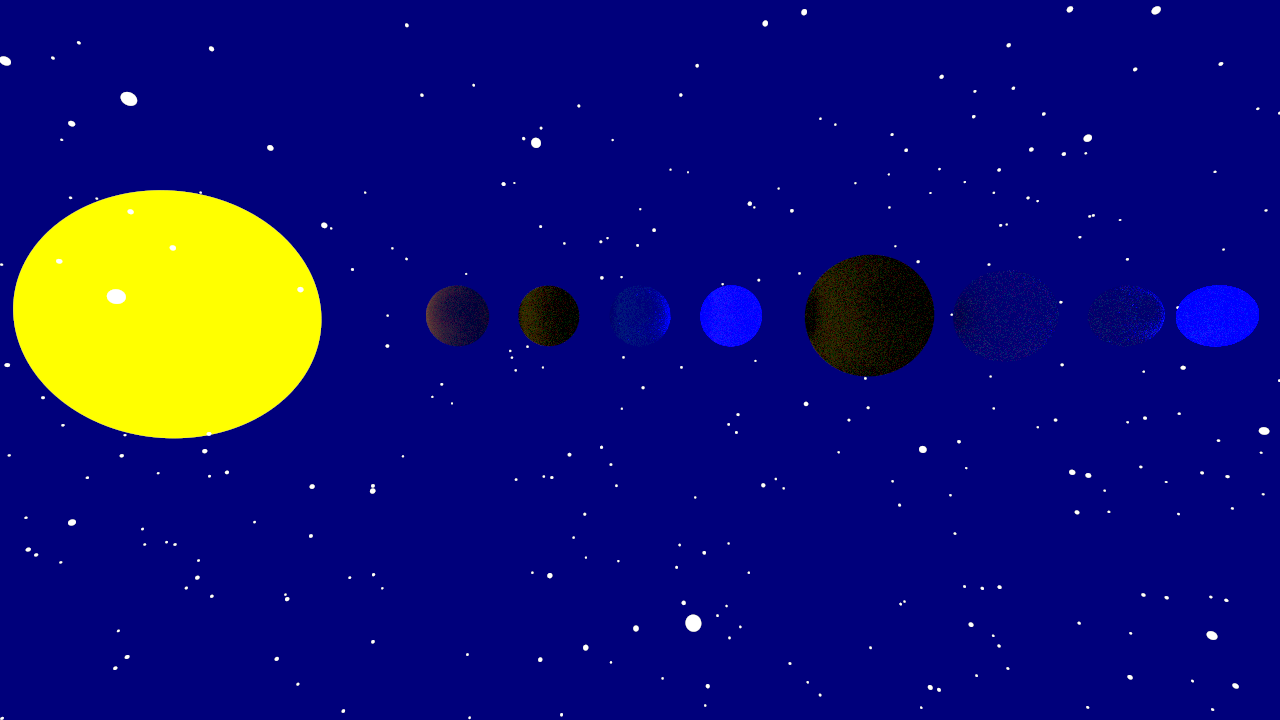
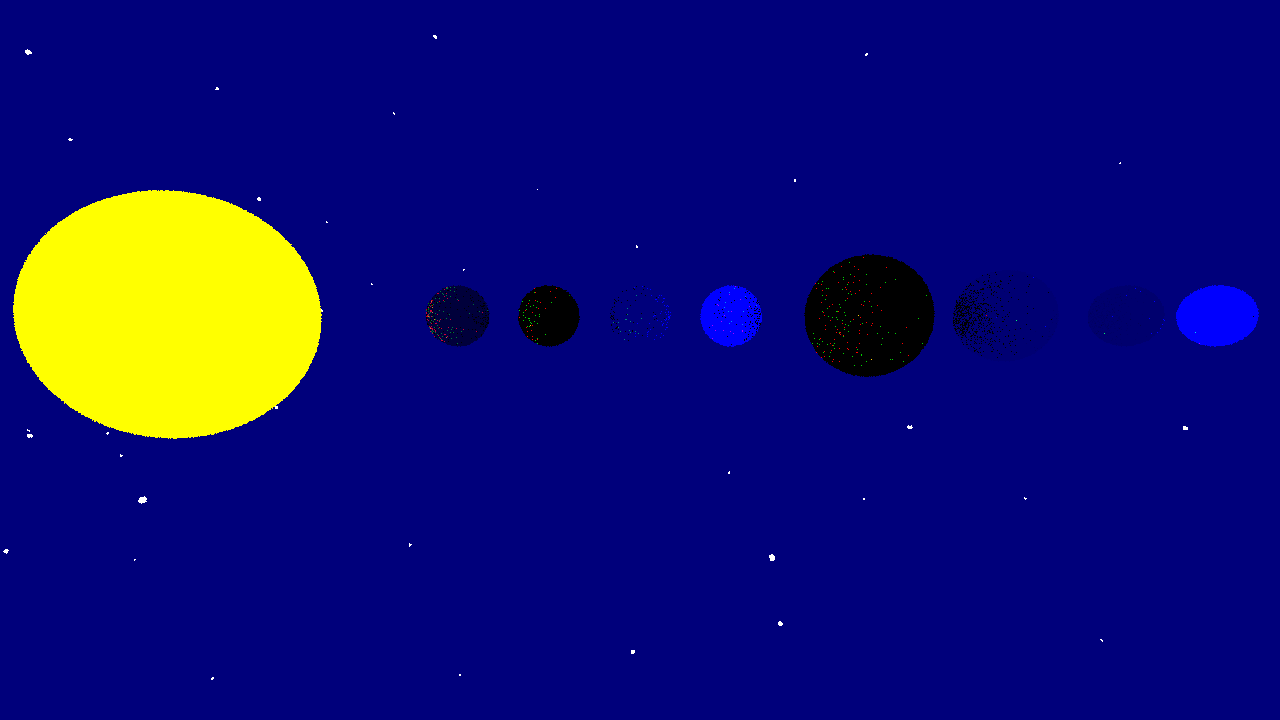
A10 Abgabe

diff --git a/src/cgg/a10/MainA10.java b/src/cgg/a10/MainA10.java
@@ -1,0 +1,64 @@
+package cgg.a10;
+
+import static cgtools.Color.white;
+import static cgtools.Vector.*;
+import static cgtools.Matrix.*;
+import static cgtools.Direction.*;
+
+import java.io.IOException;
+import java.util.ArrayList;
+
+import cgg.Image;
+import cgg.a03.Lochkamera;
+import cgg.a03.Sphere;
+import cgg.a04.Background;
+import cgg.a04.Group;
+import cgg.a04.GroupRaytracer;
+import cgg.a04.Shape;
+import cgg.a05.BackgroundMaterial;
+import cgg.a05.DiffusedMaterial;
+import cgtools.Direction;
+import cgtools.Sampler;
+
+public class MainA10 {
+
+	public static void main(String[] args) {
+		// TODO Auto-generated method stub
+		final int width = 1280;
+		final int height = 720;
+
+		// Creates an image and iterates over all pixel positions inside the image.
+		Image image = new Image(width, height);
+
+		ArrayList<Shape> shapes = new ArrayList<Shape>();
+		
+		try {
+		Sampler universe = new Texture("./Textures/universe.jpeg");
+
+		Shape background = new Background(new BackgroundMaterial(new Constant(white)));
+		Shape globe1 = new Sphere(point(0.0, 0.0, -2.5), 0.7, new DiffusedMaterial(new Texture("./Textures/deathStar.jpeg")));
+		
+
+		shapes.add(background);
+		shapes.add(globe1);
+
+		Group group = new Group(shapes);
+		
+		Lochkamera cam = new Lochkamera(Math.PI / 3, width, height, multiply(translation(2,0,-2), rotation(new Direction(0,1,0), 60)));
+
+		GroupRaytracer raytracer = new GroupRaytracer(group, 5, cam);
+
+		// Abtastung
+		image.sample(raytracer);
+
+		String filename = "doc/a10-1.png";
+		image.write(filename);
+		System.out.println("Wrote image: " + filename);
+		
+		} catch (IOException e) {
+			e.printStackTrace();
+		}
+
+	}
+
+}

diff --git a/src/cgg/a03/Lochkamera.java b/src/cgg/a03/Lochkamera.java
@@ -12,14 +12,14 @@ public class Lochkamera {
 	double width;
 	Point camera = point(0, 0, 0);
 	Matrix matrix;
-	
+
 	public Lochkamera(double winkel, double width, double height, Matrix matrix) {
 		this.winkel = winkel;
 		this.height = height;
 		this.width = width;
 		this.matrix = matrix;
 	}
-	
+
 	public Lochkamera(double winkel, double width, double height) {
 		this.winkel = winkel;
 		this.height = height;
@@ -27,11 +27,22 @@ public class Lochkamera {
 	}
 
 	public Ray createRay(double x, double y) {
+		if (matrix != null) {
+			double xd = x - width / 2;
+			double yd = ((height / 2) - y);
+			double zd = -((height / 2) / Math.tan(winkel / 2));
 
-		double xd = x - width / 2;
-		double yd = ((height / 2) - y);
-		double zd = -((height / 2) / Math.tan(winkel / 2));
-
-		return new Ray(multiply(matrix,camera), multiply(matrix, normalize(direction(xd, yd, zd))), 0, Double.POSITIVE_INFINITY);
+			return new Ray(multiply(matrix, camera), multiply(matrix, normalize(direction(xd, yd, zd))), 0,
+					Double.POSITIVE_INFINITY);
+		} else {
+			return new Ray(camera, normalize(calculateD(x, y)), 0, Double.POSITIVE_INFINITY);
+		}
+	}
+	
+	private Direction calculateD(double x, double y) {
+		double dx = x - width/2.0;
+		double dy = -(y - height/2.0);
+		double dz = -((width/2.0)/Math.tan(winkel/2.0));
+		return direction(dx, dy, dz);
 	}
 }

diff --git a/src/cgg/a06/Glass.java b/src/cgg/a06/Glass.java
@@ -1,24 +1,29 @@
 package cgg.a06;
 
 import static cgtools.Color.black;
-import static cgtools.Random.*;
-
-import static cgtools.Vector.*;
+import static cgtools.Random.random;
+import static cgtools.Vector.add;
+import static cgtools.Vector.dotProduct;
+import static cgtools.Vector.multiply;
+import static cgtools.Vector.negate;
+import static cgtools.Vector.normalize;
+import static cgtools.Vector.subtract;
 
 import cgg.a03.Hit;
 import cgg.a03.Ray;
 import cgg.a05.Material;
 import cgtools.Color;
 import cgtools.Direction;
+import cgtools.Sampler;
 import cgtools.Util;
 
 public class Glass implements Material {
-	Color albedo;
+	Sampler albedo;
 	double inRefracIndex;
 	double outRefracIndex;
 
-	public Glass(Color albedo, double inRefracIndex, double outRefracIndex) {
-		this.albedo = albedo;
+	public Glass(Sampler texture, double inRefracIndex, double outRefracIndex) {
+		this.albedo = texture;
 		this.inRefracIndex = inRefracIndex;
 		this.outRefracIndex = outRefracIndex;
 	}
@@ -32,7 +37,7 @@ public class Glass implements Material {
 	@Override
 	public Color getAlbedo(Hit hit) {
 		// TODO Auto-generated method stub
-		return albedo;
+		return albedo.getColor(hit.u, hit.v);
 	}
 
 	public static Direction refract(Direction d, Direction n, double n1, double n2) {

diff --git a/src/cgg/a06/MetalMaterial.java b/src/cgg/a06/MetalMaterial.java
@@ -1,23 +1,30 @@
 package cgg.a06;
 
 import static cgtools.Color.black;
-import static cgtools.Vector.*;
+import static cgtools.Random.random;
+import static cgtools.Vector.add;
+import static cgtools.Vector.direction;
+import static cgtools.Vector.dotProduct;
+import static cgtools.Vector.length;
+import static cgtools.Vector.multiply;
+import static cgtools.Vector.normalize;
+import static cgtools.Vector.subtract;
 
 import cgg.a03.Hit;
 import cgg.a03.Ray;
 import cgg.a05.Material;
 import cgtools.Color;
 import cgtools.Direction;
+import cgtools.Sampler;
 import cgtools.Util;
-import static cgtools.Random.*;
 
 public class MetalMaterial implements Material {
 
-	Color albedo;
+	public final Sampler albedo;
 	double s;
 
-	public MetalMaterial(Color albedo, double s) {
-		this.albedo = albedo;
+	public MetalMaterial(Sampler texture, double s) {
+		this.albedo = texture;
 		this.s = s;
 	}
 
@@ -30,7 +37,7 @@ public class MetalMaterial implements Material {
 	@Override
 	public Color getAlbedo(Hit hit) {
 		// TODO Auto-generated method stub
-		return albedo;
+		return albedo.getColor(hit.u, hit.v);
 	}
 
 	@Override

diff --git a/src/cgg/a05/DiffusedMaterial.java b/src/cgg/a05/DiffusedMaterial.java
@@ -1,26 +1,25 @@
 package cgg.a05;
 
 import static cgtools.Color.black;
+import static cgtools.Random.random;
 import static cgtools.Vector.add;
-import static cgtools.Vector.*;
-import static cgtools.Random.*;
+import static cgtools.Vector.direction;
+import static cgtools.Vector.length;
 import static cgtools.Vector.normalize;
-
-import java.util.Random;
 
 import cgg.a03.Hit;
 import cgg.a03.Ray;
 import cgtools.Color;
 import cgtools.Direction;
-import cgtools.Point;
+import cgtools.Sampler;
 import cgtools.Util;
 
 public class DiffusedMaterial implements Material {
 
-	Color albedo;
+	Sampler albedo;
 
-	public DiffusedMaterial(Color albedo) {
-		this.albedo = albedo;
+	public DiffusedMaterial(Sampler texture) {
+		this.albedo = texture;
 	}
 
 	@Override
@@ -30,8 +29,9 @@ public class DiffusedMaterial implements Material {
 
 	@Override
 	public Color getAlbedo(Hit hit) {
-		// einfaches albedo returnen?
-		return albedo;
+
+		// return albedo;
+		return albedo.getColor(hit.u, hit.v);
 
 	}
 

diff --git a/src/cgg/a03/Sphere.java b/src/cgg/a03/Sphere.java
@@ -1,10 +1,6 @@
 package cgg.a03;
 
-import static cgtools.Vector.add;
-import static cgtools.Vector.dotProduct;
-import static cgtools.Vector.multiply;
-import static cgtools.Vector.normalize;
-import static cgtools.Vector.subtract;
+import static cgtools.Vector.*;
 
 import cgg.a04.Shape;
 import cgg.a05.Material;
@@ -41,10 +37,18 @@ public class Sphere implements Shape {
 		double t = (-b - Math.sqrt(b * b - (4 * a * c))) / 2 * a;
 
 		if (ray.isValid(t)) {
-			Point s = add(multiply(ray.d, t), ray.x);
-			Direction dNormalized = normalize(subtract(s, center));
+			Point x = ray.pointAt(t);
+			Direction n = normalize(divide(subtract(x, center), r));
+			
+			//Texturkoordinate Kugeloberfläche:
+			
+			double azimuth = Math.PI + Math.atan2(n.x, n.z);
+			double inclination = Math.acos(n.y);
+			double u = azimuth / (2 * Math.PI);
+			double v = inclination / Math.PI;
+			
+			return new Hit(t, x, n, u, v, material);
 
-			return new Hit(t, s, dNormalized, material);
 		} else
 
 			return null;

diff --git a/src/cgg/a05/BackgroundMaterial.java b/src/cgg/a05/BackgroundMaterial.java
@@ -2,20 +2,26 @@ package cgg.a05;
 
 import cgg.a03.Hit;
 import cgg.a03.Ray;
+import cgg.a10.Constant;
 import cgtools.Color;
+import cgtools.Sampler;
 
 public class BackgroundMaterial implements Material {
 
-	Color emission;
+	public final Sampler emission;
 
-	public BackgroundMaterial(Color emission) {
-		this.emission = emission;
+	public BackgroundMaterial(Sampler texture) {
+		this.emission = texture;
+	}
+	
+	public BackgroundMaterial(Color color) {
+		this(new Constant(color));
 	}
 
 	@Override
 	public Color getEmission(Hit hit) {
 		// TODO Auto-generated method stub
-		return emission;
+		return emission.getColor(hit.u, hit.v);
 	}
 
 	@Override

diff --git a/src/cgg/a10/Texture.java b/src/cgg/a10/Texture.java
@@ -1,0 +1,21 @@
+package cgg.a10;
+
+import java.io.IOException;
+
+import cgtools.Color;
+import cgtools.ImageTexture;
+import cgtools.Sampler;
+
+public class Texture implements Sampler {
+	
+	public final ImageTexture texture;
+	
+	public Texture(String filename) throws IOException {
+		texture = new ImageTexture(filename);
+	}
+
+	@Override
+	public Color getColor(double u, double v) {
+		return texture.getColor(u, v);
+	}
+}

diff --git a/src/cgg/a10/Constant.java b/src/cgg/a10/Constant.java
@@ -1,0 +1,18 @@
+package cgg.a10;
+
+import cgtools.Color;
+import cgtools.Sampler;
+
+public class Constant implements Sampler {
+	
+	public final Color color;
+	
+	public Constant(Color color) {
+		this.color = color;
+	}
+
+	@Override
+	public Color getColor(double u, double v) {
+		return color;
+	}
+}

diff --git a/src/cgg/a07/MainA07.java b/src/cgg/a07/MainA07.java
@@ -37,7 +37,7 @@ public class MainA07 {
 		
 		shapes.add(background);
 		
-		for(int i = 0; i < 800; i ++) {
+		for(int i = 0; i < 100; i ++) {
 			shapes.add(new Sphere(point(random() * 4 - 2, random() * 2 - 1, random() * 2 - 2), 0.003, new BackgroundMaterial(white)));
 			
 		}

diff --git a/src/cgtools/Direction.java b/src/cgtools/Direction.java
@@ -6,7 +6,7 @@ import static cgtools.Vector.*;
 public final class Direction {
   public final double x, y, z;
 
-  protected Direction(double x, double y, double z) {
+  public Direction(double x, double y, double z) {
     this.x = x;
     this.y = y;
     this.z = z;
